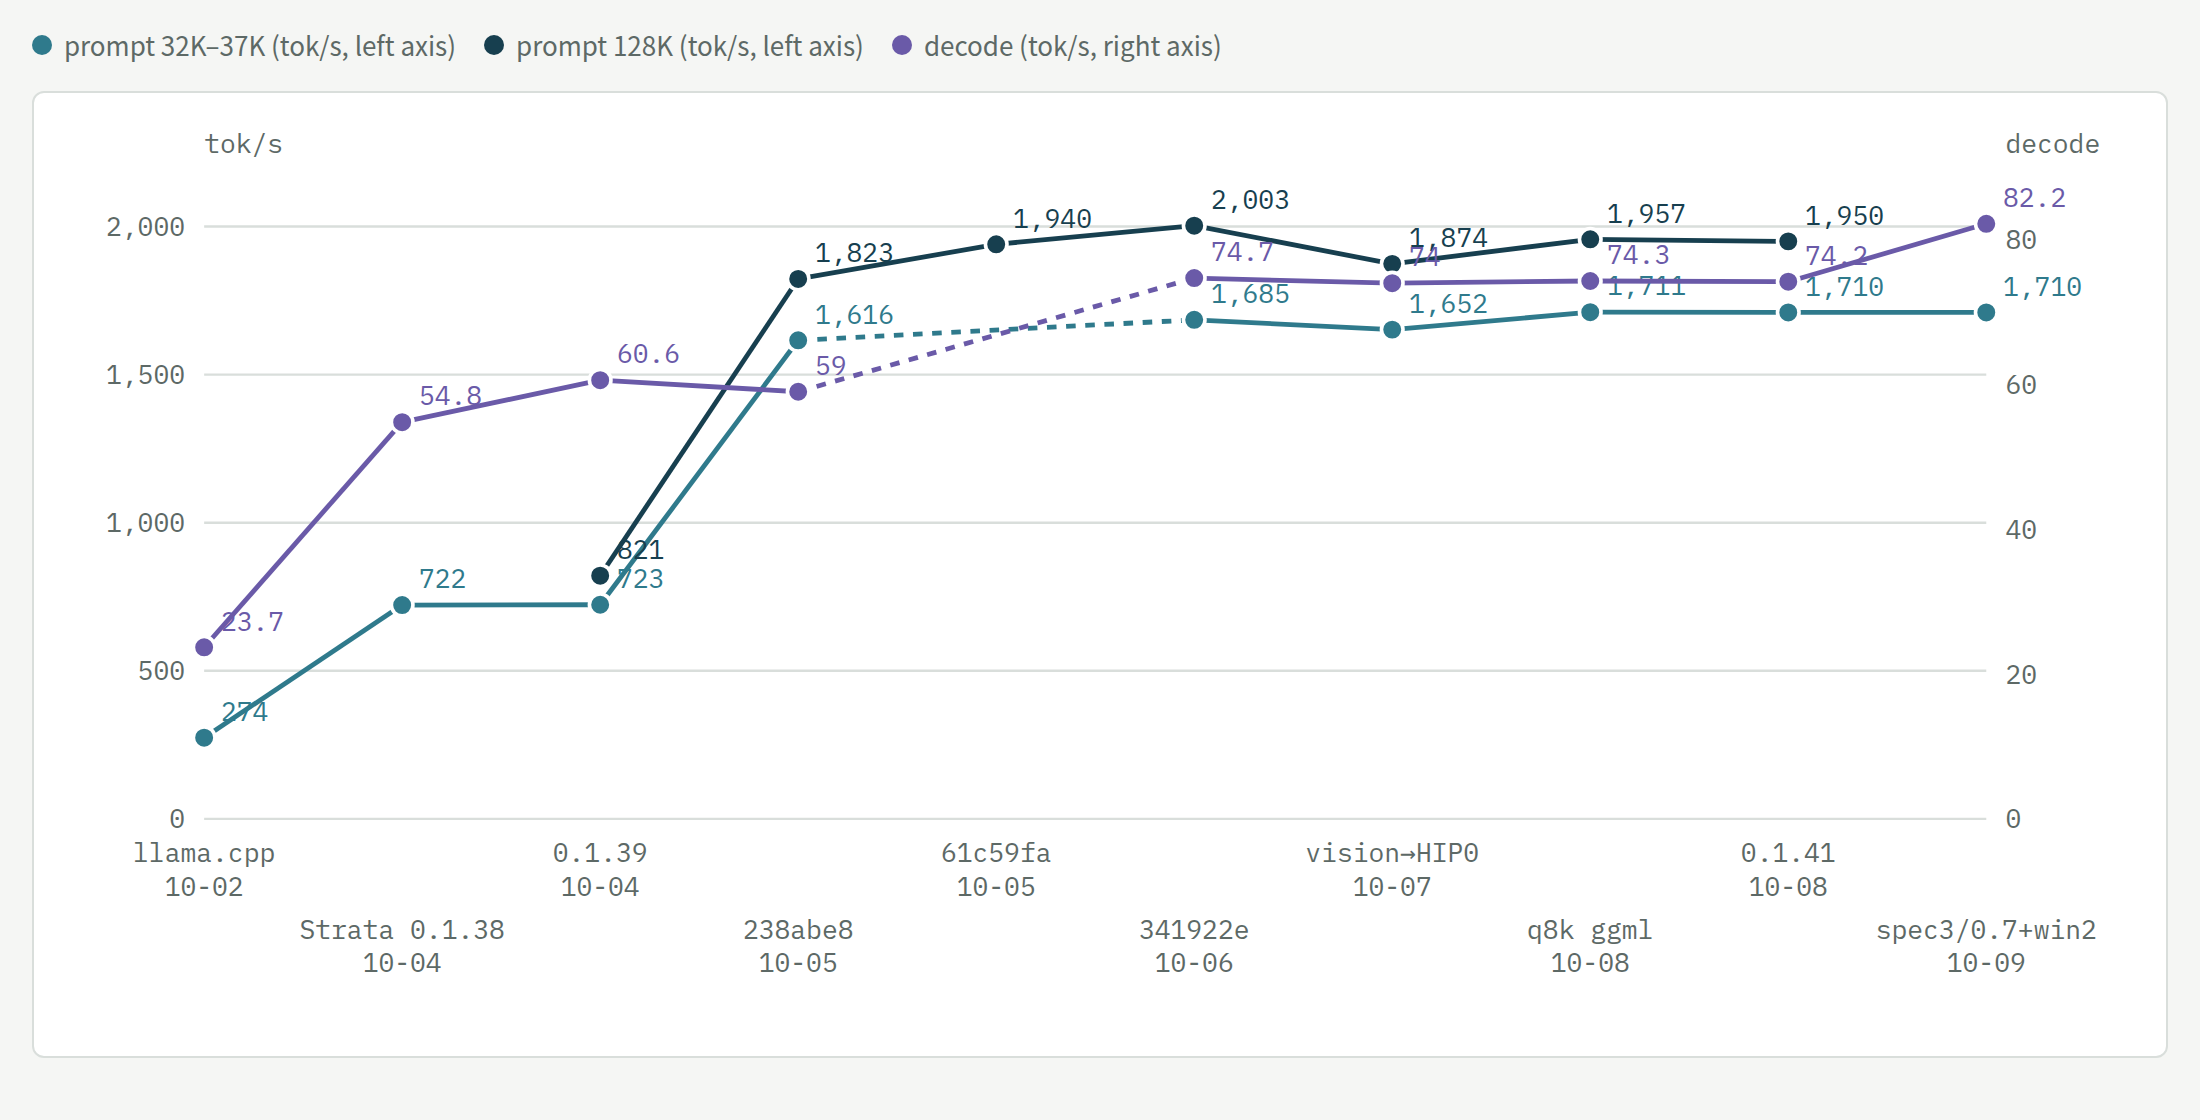
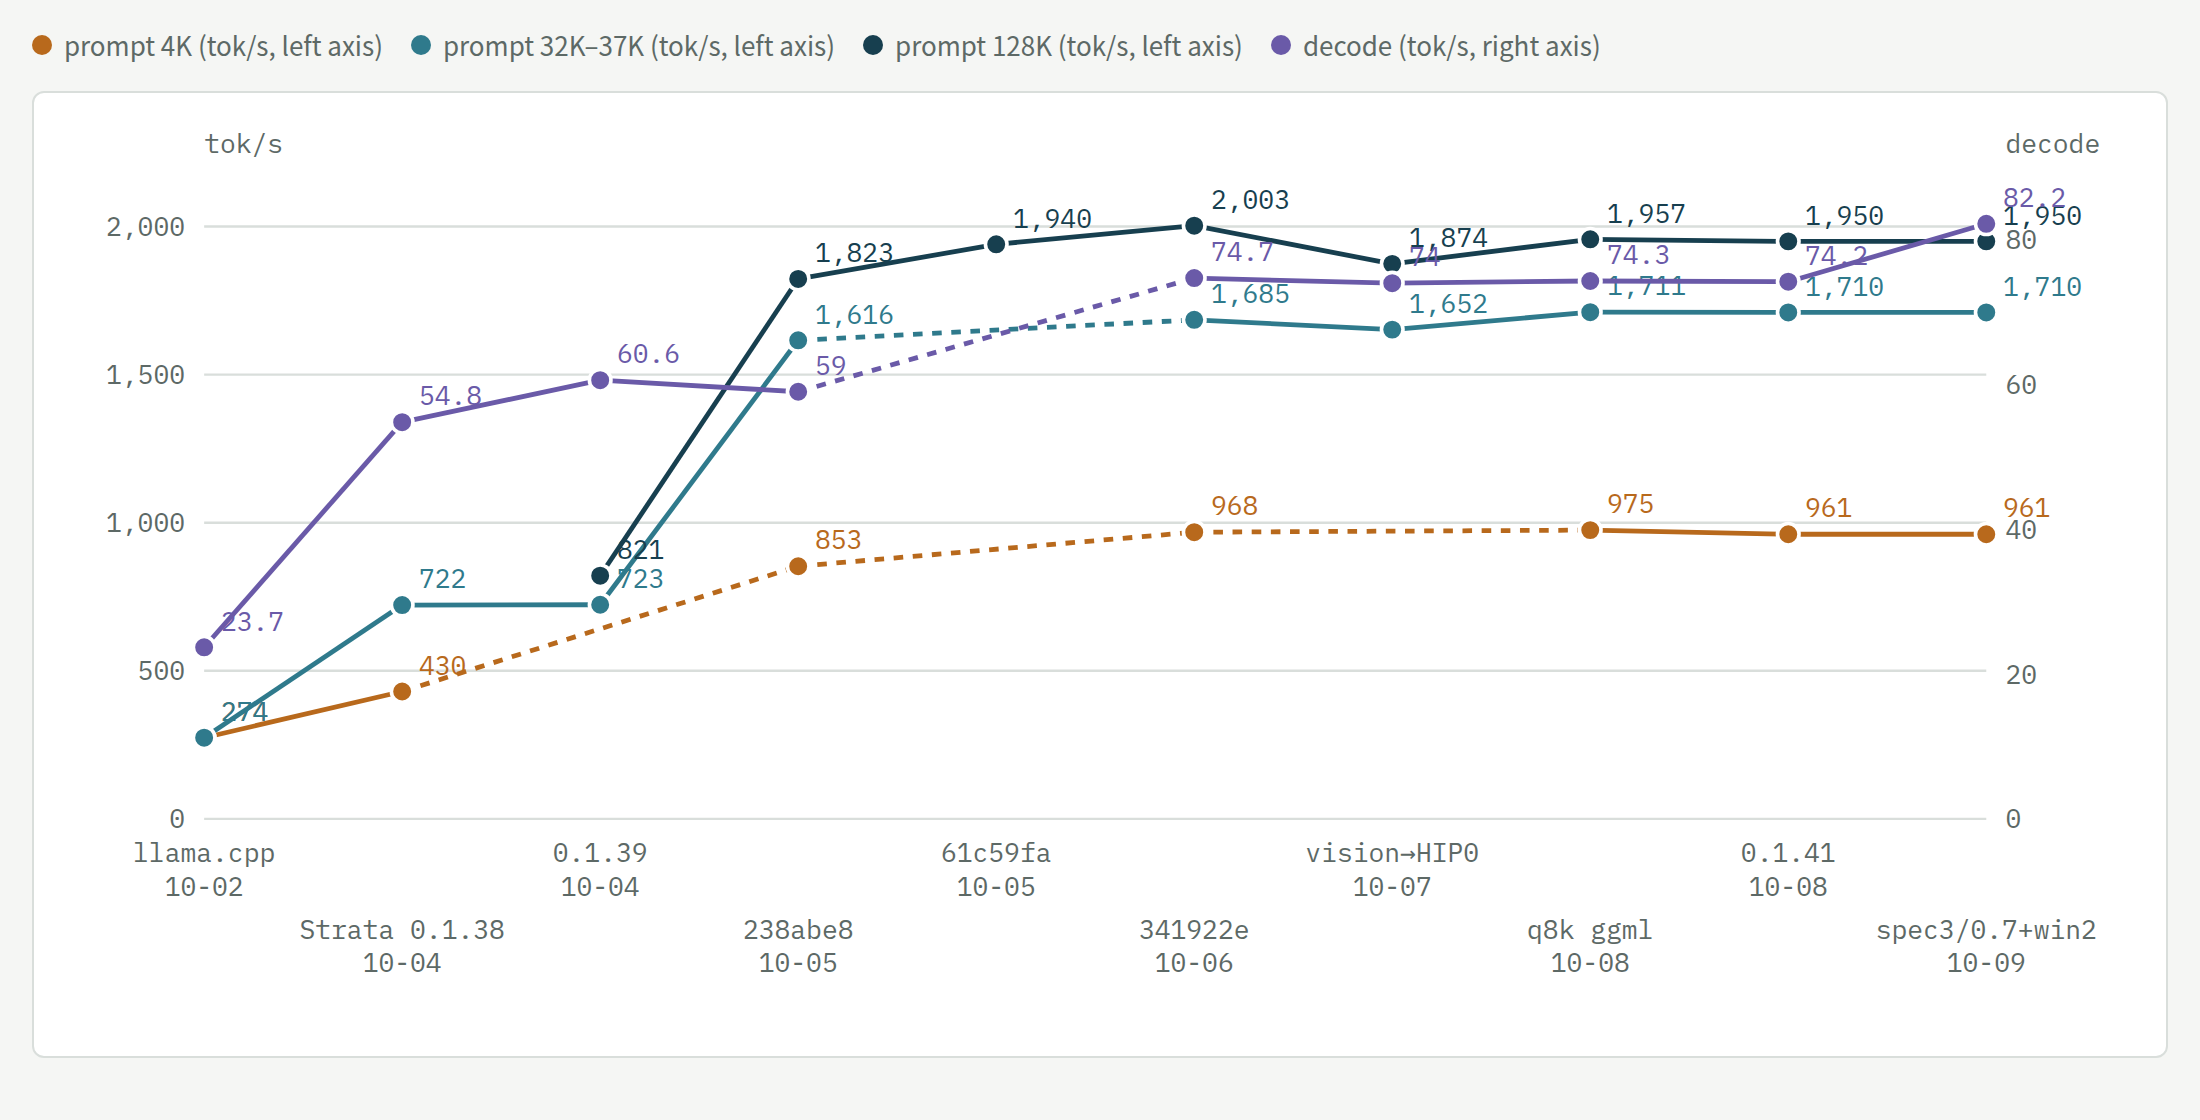
Chart: 4K prompt series and the last point's 128K; status cards without the timestamp, E388 numbers

diff --git a/index.html b/index.html
@@ -79,12 +79,12 @@ code{font-family:var(--f-data);font-size:.92em}
 </header>
 
 <section>
-  <h2>现在（10-09 00:16 起，strata-141-d14ca361 + E387 解码配置）</h2>
+  <h2>现在（strata-141-d14ca361 + E387 解码配置）</h2>
   <div class="now">
-    <div><b>960–980</b><small>4K prompt tok/s</small></div>
-    <div><b>1,710</b><small>32K prompt tok/s</small></div>
-    <div><b>1,950</b><small>128K prompt tok/s</small></div>
-    <div><b>73–83</b><small>解码 tok/s（4K 73–77 / 32K 80–83；spec 3/0.7 + 两窗流水线，10-09 起；之前 66–75）</small></div>
+    <div><b>968</b><small>4K prompt tok/s（E388）</small></div>
+    <div><b>1,714</b><small>32K prompt tok/s（E388）</small></div>
+    <div><b>2,041</b><small>128K prompt tok/s（E388，无图片编码器；带编码器 ≈1,950）</small></div>
+    <div><b>77 / 82 / 76</b><small>解码 tok/s，4K / 32K / 128K（E388；真实会话 93K 长生成 97）；之前 66–75</small></div>
   </div>
   <p class="foot">生产 = Strata 上游 0.1.41 + 7 个本地补丁（PR #1149 / #1151 / #1167 + rocBLAS 解的本机缓存）+ 自改的 llama.cpp ggml（MMQ 的 q8_0 / iq3_s dot 链头用 VOP3P 编码）。</p>
 </section>
@@ -92,12 +92,13 @@ code{font-family:var(--f-data);font-size:.92em}
 <section>
   <h2>速度怎么一步步上来的</h2>
   <div class="legend">
+    <span><i class="dot" style="background:var(--l-stable)"></i>读 prompt，4K（tok/s，左轴）</span>
     <span><i class="dot" style="background:var(--l-prompt)"></i>读 prompt，32K–37K（tok/s，左轴）</span>
     <span><i class="dot" style="background:var(--l-engine)"></i>读 prompt，128K（tok/s，左轴）</span>
     <span><i class="dot" style="background:var(--l-decode)"></i>解码（tok/s，右轴）</span>
   </div>
   <div class="panel"><div class="chart" id="speed"></div>
-  <p class="foot">各点来自不同实验，条件不完全相同：llama.cpp 和 132a522 是 37K（E215）；0.1.39 和 238abe8 来自 10-05 社区报告，当时自适应关着；61c59fa 只测了 128K（E300）；341922e 来自 E342；10-07 起的点来自 E362 / E380 / E382 / E383 的 P 臂（生产配置、图片编码器在 HIP0）。空心点表示那一步没测这个指标。</p></div>
+  <p class="foot">各点来自不同实验，条件不完全相同：4K 线的前两点是 5K prompt（E215），238abe8 / 341922e 的 4K 来自两份社区报告的 split 臂；最后一点的 prompt 三档取 E383/E387 的生产臂（解码配置不改 prompt，E388 ±0.7%）；llama.cpp 和 132a522 是 37K（E215）；0.1.39 和 238abe8 来自 10-05 社区报告，当时自适应关着；61c59fa 只测了 128K（E300）；341922e 来自 E342；10-07 起的点来自 E362 / E380 / E382 / E383 的 P 臂（生产配置、图片编码器在 HIP0）。空心点表示那一步没测这个指标。</p></div>
 </section>
 
 <section>
@@ -126,16 +127,16 @@ function el(t,a,txt){const e=document.createElementNS(NS,t);for(const k in a)e.s
 
 // milestones on the chart (production states)
 const M=[
-  {k:'llama.cpp\n10-02',p32:274,p128:null,d:23.7},
-  {k:'Strata 0.1.38\n10-04',p32:722,p128:null,d:54.8},
-  {k:'0.1.39\n10-04',p32:723,p128:821,d:60.6},
-  {k:'238abe8\n10-05',p32:1616,p128:1823,d:59.0},
-  {k:'61c59fa\n10-05',p32:null,p128:1940,d:null},
-  {k:'341922e\n10-06',p32:1685,p128:2003,d:74.7},
-  {k:'vision→HIP0\n10-07',p32:1652,p128:1874,d:74.0},
-  {k:'q8k ggml\n10-08',p32:1711,p128:1957,d:74.3},
-  {k:'0.1.41\n10-08',p32:1710,p128:1950,d:74.2},
-  {k:'spec3/0.7+win2\n10-09',p32:1710,p128:null,d:82.2},
+  {k:'llama.cpp\n10-02',p4:274,p32:274,p128:null,d:23.7},
+  {k:'Strata 0.1.38\n10-04',p4:430,p32:722,p128:null,d:54.8},
+  {k:'0.1.39\n10-04',p4:null,p32:723,p128:821,d:60.6},
+  {k:'238abe8\n10-05',p4:853,p32:1616,p128:1823,d:59.0},
+  {k:'61c59fa\n10-05',p4:null,p32:null,p128:1940,d:null},
+  {k:'341922e\n10-06',p4:968,p32:1685,p128:2003,d:74.7},
+  {k:'vision→HIP0\n10-07',p4:null,p32:1652,p128:1874,d:74.0},
+  {k:'q8k ggml\n10-08',p4:975,p32:1711,p128:1957,d:74.3},
+  {k:'0.1.41\n10-08',p4:961,p32:1710,p128:1950,d:74.2},
+  {k:'spec3/0.7+win2\n10-09',p4:961,p32:1710,p128:1950,d:82.2},
 ];
 (function(){
   const W=860,H=372,L=56,R=60,T=16,B=84;
@@ -145,7 +146,7 @@ const M=[
   [0,500,1000,1500,2000].forEach(v=>{svg.append(el('line',{x1:L,x2:W-R,y1:yl(v),y2:yl(v),stroke:'var(--rule)'}));svg.append(el('text',{x:L-8,y:yl(v)+4,'text-anchor':'end'},v.toLocaleString('en-US')));});
   [0,20,40,60,80].forEach(v=>svg.append(el('text',{x:W-R+8,y:yr(v)+4},String(v))));
   M.forEach((m,i)=>{m.k.split('\n').forEach((s,j)=>svg.append(el('text',{x:xs(i),y:H-B+18+j*14+(i%2)*32,'text-anchor':'middle'},s)));});
-  const series=[['p32','var(--l-prompt)',yl],['p128','var(--l-engine)',yl],['d','var(--l-decode)',yr]];
+  const series=[['p4','var(--l-stable)',yl],['p32','var(--l-prompt)',yl],['p128','var(--l-engine)',yl],['d','var(--l-decode)',yr]];
   series.forEach(([key,col,y])=>{
     let last=null;
     M.forEach((m,i)=>{const v=m[key]; if(v==null) return;

diff --git a/README.md b/README.md
@@ -12,7 +12,7 @@
   <img alt="Prompt and decode speed, step by step, llama.cpp 10-02 to Strata 0.1.41 10-08" src="docs/speed-chart-en-light.png" width="100%">
 </picture>
 
-*Prompt 32K–37K and 128K tok/s (left axis) and decode tok/s (right axis) at each production state. Points come from different experiments under slightly different conditions; the notes under the chart on the interactive page list them. Hollow points = not measured at that step.*
+*Prompt tok/s at 4K, 32K–37K and 128K (left axis) and decode tok/s (right axis) at each production state. Points come from different experiments under slightly different conditions (the 4K points of the first two steps are 5K prompts; the notes under the chart on the interactive page list the rest); a dashed segment bridges a step where that metric was not measured.*
 
 Tuning log for **Qwen3.8-Flash-Next (GSQ-RCO IQ3_S)** on a home box with **2x AMD RX 6900 XT (gfx1030, PCIe 4.0 x8 each) / Ryzen 5 5600X / 128 GB DDR4**, ROCm 10.0 — from llama.cpp to [Strata](https://github.com/Niko1221/Strata), 2026-09-21 → 10-08. Experiment numbers (E…) refer to the author's lab notebook (not public). Every number is measured on this machine unless marked as an estimate.
 
@@ -23,7 +23,7 @@ Tuning log for **Qwen3.8-Flash-Next (GSQ-RCO IQ3_S)** on a home box with **2x AM
 ## 0. Where it stands
 
 - **Production (binary since 10-08 21:25, decode config since 10-09 00:16):** Strata upstream 0.1.41 + 7 local patches (upstream PRs #1149 / #1151 / #1167 + a per-device rocBLAS solution cache) + a modified llama.cpp ggml (MMQ dot-chain heads in the VOP3P encoding on RDNA2). Two-card layer split, IQ3_S experts, int8 KV, MTP `--spec 4 --spec-min-p 0.5`.
-- **Speed (production config):** prompt 4K ≈ 960–980 tok/s, 32K ≈ 1,710, 128K ≈ 1,950; decode 73–83 tok/s (4K 73–77, 32K 80–83; `--spec 3 --spec-min-p 0.7 --pipeline-windows 2` since 10-09 00:16; 66–75 before).
+- **Speed (production config):** prompt 968 / 1,714 / 2,041 tok/s at 4K / 32K / 128K, decode 77 / 82 / 76 (E388: the production binary with `--spec 3 --spec-min-p 0.7 --pipeline-windows 2`, no vision encoder; with the encoder loaded 128K is ≈1,950, 4K/32K the same); a real 93K-context session decoded a long reply at 97 tok/s. Decode was 66–75 before.
 - **Whole journey, same IQ3_S model:** decode 26 → 66–75 tok/s (≈2.7×), 37K/50K prompt 274 → ~1,700 tok/s (≈6×). The engine switch (llama.cpp → Strata) is most of it; the patches and configuration after that add about +50% prompt (714 → 1,433 → 1,705 → 1,711) and about +20% decode.
 - **Closed directions (measured; do not retry on this box):** every decode-side configuration knob — `--kv-resident` shrink (E382), `--pipeline-windows 2` alone (E384, +1–6%), the 16-point `--spec` × `--spec-min-p` grid at `--pipeline-windows 1` (E385, 4/0.5 is the peak of accepted tokens per window) — **but the combination works**: `--spec 3 --spec-min-p 0.7 --pipeline-windows 2` decodes +10–16% at 4K and +8–11% at 32K (E387, three confirmation rounds; the short draft is accepted 83% of the time instead of 68%, so the speculative second window hits). Prompt speed unchanged; output differs between starts (the baseline is deterministic); 128K +11% in the no-vision-encoder configuration (E388); in production since 10-09 00:16; batch slots (resident experts 41% < upstream's 50% gate, slots decode without MTP); MMQ tile / stream-K for IQ3_S (E279/E280); `--prefill` chunks other than 8192 (E296); tensor parallel (E234, +6%); and the upstream opt-ins that upstream itself measured as neutral or negative on small cards (chunked GDN, Foresight swap slots, pinned stage buffers).
 - **What is left:** the PCIe topology (x16 + x4 would give ~1.5× on long prompts but breaks RCCL tensor parallel for the dense 27B model on the same box — a trade the owner has not made); and kernel-level work on the prompt side, where expert GEMM, GDN, QSA attention and the hc read each take 10–15% (≤10% each at best).

diff --git a/README.zh-CN.md b/README.zh-CN.md
@@ -12,7 +12,7 @@
   <img alt="Prompt and decode speed, step by step, llama.cpp 10-02 to Strata 0.1.41 10-08" src="docs/speed-chart-light.png" width="100%">
 </picture>
 
-*各生产状态的读 prompt（32K–37K 与 128K，左轴）和解码（右轴）tok/s。各点来自不同实验、条件不完全相同，交互页图下有说明；空心点表示那一步没测这个指标。*
+*各生产状态的读 prompt（4K、32K–37K、128K，左轴）和解码（右轴）tok/s。各点来自不同实验、条件不完全相同（前两步的 4K 点是 5K prompt；其余见交互页图下说明）；虚线段表示那一步没测这个指标。*
 
 在一台家用机器（**2× AMD RX 6900 XT，gfx1030，各 PCIe 4.0 x8 / Ryzen 5 5600X / 128 GB DDR4**，ROCm 10.0）上跑 **Qwen3.8-Flash-Next（GSQ-RCO IQ3_S）** 的调优记录，从 llama.cpp 到 [Strata](https://github.com/Niko1221/Strata)，2026-09-21 → 10-08。
 
@@ -36,7 +36,7 @@ AiBox：2× RX 6900 XT（gfx1030，各 PCIe 4.0 x8）/ Ryzen 5 5600X / 128 GB，
 ## 0. 结论（先看这里）
 
 - **生产（10-09 00:16 起，解码配置换 E387；二进制 10-08 21:25 起）**：llama-swap `strata-split` / `strata-split-256k` = `strata-141-d14ca361`（Strata 上游 0.1.41 + 我们 7 个补丁 + llama-q2k 的 ggml）。回退槽 `strata-split-prev` = strata-q8k-4592281。
-- **现在的速度**（E383/E385 的 P 臂，生产配置）：prompt 4K ≈ 960–980 tok/s、32K ≈ 1,710、128K ≈ 1,950；解码 73–83 tok/s（4K 73–77 / 32K 80–83；`--spec 3 --spec-min-p 0.7 --pipeline-windows 2`，10-09 00:16 起；之前 66–75）。
+- **现在的速度**（E383/E385 的 P 臂，生产配置）：prompt 4K 968、32K 1,714、128K 2,041 tok/s，解码 77 / 82 / 76（E388，生产二进制 + `--spec 3 --spec-min-p 0.7 --pipeline-windows 2`，无图片编码器；生产带编码器时 128K ≈1,950，4K/32K 相同）；真实会话 93K 上下文长生成 97 tok/s。之前解码 66–75。
 - **从 llama.cpp 到 Strata 的总账**（同一份 IQ3_S）：解码 26 → 66–75 tok/s（≈2.7×），37K/50K prompt 274 → 1,700（≈6×）。其中 Strata 本身换引擎占大头，之后我们的补丁和配置累计 prompt 约 +50%（714 → 1,433 → 1,705 → 1,711），解码约 +20%。
 - **已经到地板的（别再试）**：解码的配置级杠杆**单独调**全部否定——`--kv-resident` 缩小（E382）、单开 `--pipeline-windows 2`（E384，+1–6%）、pipeline-windows 1 下的 `--spec`/`--spec-min-p` 16 点网格（E385/b，4/0.5 是峰值）；**但组合有效**：`--spec 3 --spec-min-p 0.7 --pipeline-windows 2` 解码 4K +10–16%、32K +8–11%（E387，三轮确认；短草稿接受率 83% vs 68%，第二窗的推测才命中），prompt 不变，输出跨启动不确定（基线是确定的），128K 在无编码器配置下 +11%（E388）；10-09 00:16 上生产；并发批槽对这台机器无益（常驻专家 41% < 上游门槛 50%，槽里不带 MTP）；IQ3_S 的 MMQ 分块/stream-K（E279/E280）；`--prefill` chunk 8192 即甜点（E296）；上游的 GDN 分块、Foresight、STAGE_PIN（上游自测对小卡无益或有害）。
 - **还有空间的**：PCIe 拓扑换 x16+x4（大 prompt 约 1.5×，但 27B 的张量并行会崩，二选一，由用户定）；prompt 侧专家 GEMM / GDN / QSA 注意力 / hc 读各占 10–15%，每项都是内核级工作，≤10%。
